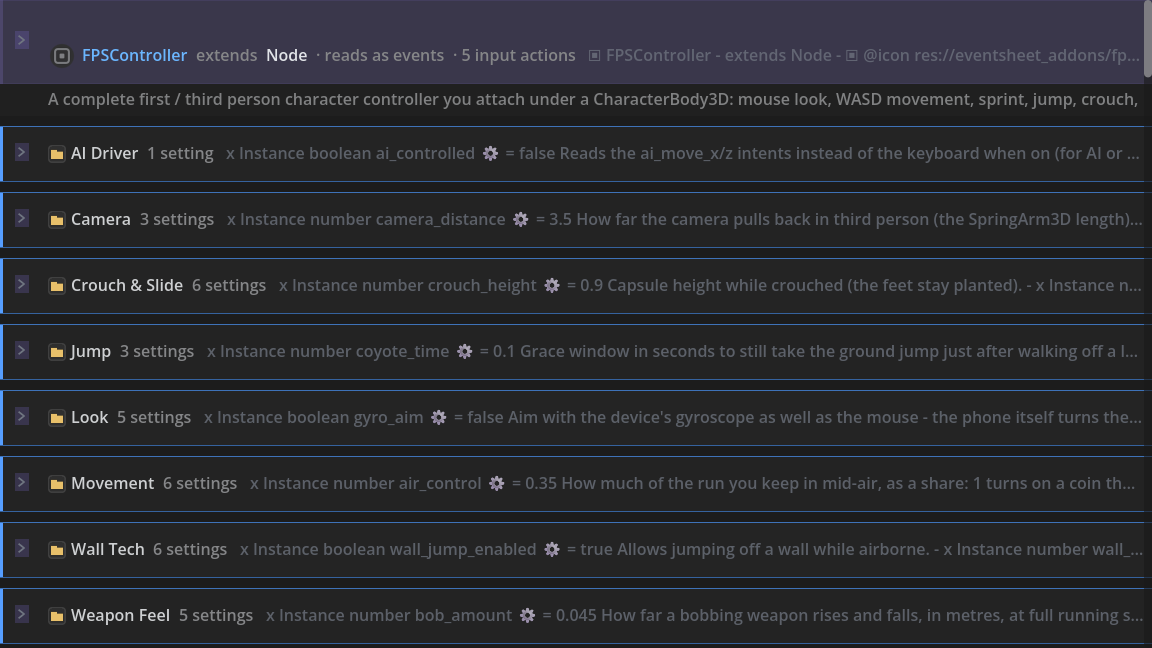
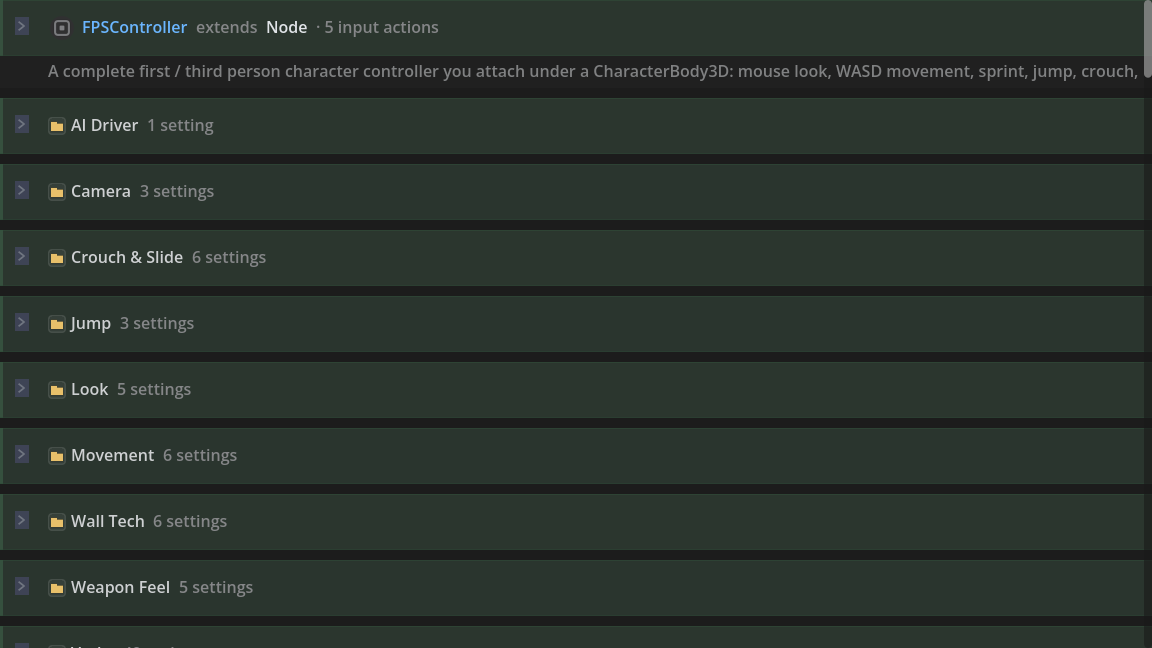
feat(head): the head bars are flat, one line, and say nothing twice
The bar a file opens on and the Input, Instance variables and Behaviors bars under it were a purple
wash one and a half rows tall, a row of filled word pills, and a grey echo of the very lines they
fold. They are one row tall on one flat tint now (head_bar_color, a sheet-theme token every shipped
theme states), the kinds are plain words that stay doors into their packs, nothing trails the bar,
and 'reads as events' is only said as a count of the blocks that did not.

diff --git a/CHANGELOG.md b/CHANGELOG.md
@@ -2,6 +2,18 @@
 
 ## [Unreleased]
 
+### Changed: the head bars are flat, one line, and say nothing twice
+
+- **The head is painted the way an Include row is painted elsewhere.** The bar a file opens on,
+  and the Input, Instance variables and Behaviors bars under it, sat on a purple wash one and a
+  half rows tall, wore a row of filled word pills, and trailed a grey echo of the very lines they
+  folded. They are one row tall now, on one quiet flat tint (`head_bar_color`, a token on the sheet
+  theme, stated by every shipped theme), the counts and kinds are plain words - `Behaviors · 34 on
+  this object - Spring 10, Tween 10, Sine 8` - each still a door into its pack, and nothing trails
+  the bar: the folded lines are read by opening the fold, not by squinting at its echo. The words
+  `reads as events` left the bar for a file that reads whole; only a count of script blocks that
+  did not is said, and it still walks them one per click.
+
 ### Changed: a behavior pack opens on its verbs
 
 - **Four bands instead of a wall.** A pack opened to read used to open on its implementation -
